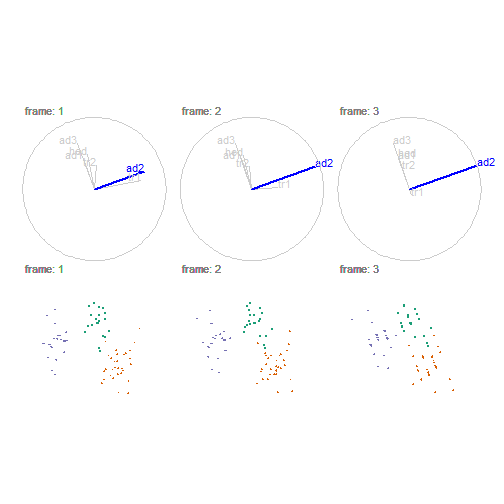
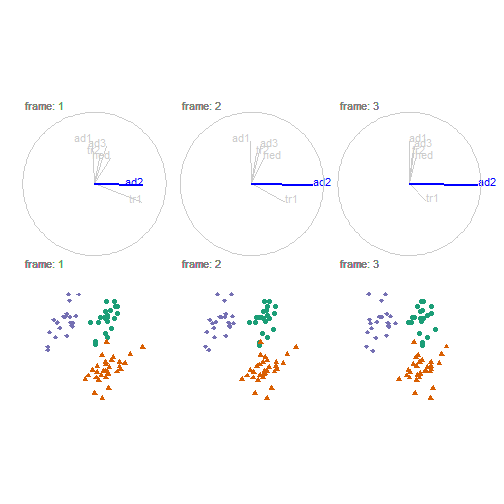
centering, knit, static angle

diff --git a/slides_ns.html b/slides_ns.html
@@ -64,14 +64,14 @@ Datasaurus dozen; same means, standard deviations, and correlations, *(Matejka &
 --
 
 .pull-left[
-grand tour (random):
+.center[grand tour (random):]
 &lt;img src="./images/flea_grand.gif" width="70%" height="70%" style="display: block; margin: auto;" /&gt;
 ]
 
 --
 
 .pull-right[
-guided tour - optimizing holes index:
+.center[guided tour - optimizing holes index:]
 &lt;img src="./images/flea_holes.gif" width="70%" height="70%" style="display: block; margin: auto;" /&gt;
 ]
 
@@ -92,7 +92,7 @@ Data visualization has lagged behind in adopting 3D and immersive technologies, 
 .pull-right[
 3D visuals generally convey more information with more speed, but  manipulation is slower when compared with orthogonal 2D, though 3D with 2D gives the best perception *[Lee 1986, Wickens 1994, Tory 2006]*
 
-Embedded multivariate data in immersive 3D report improved accuracy and faster response time, but a slower manipulation speed and less comfort *[Gracia 2016, Wagner 2018, Nelson 1998, counterexample: Sedlmair 2013]*
+Embedded multivariate data in immersive 3D report improved accuracy and faster response time, but a slower manipulation speed and less comfort *[Gracia 2016, Wagner 2018, Nelson 1998]*
 
 Modern VR equipment has improved quality, increased audience, and reduced the costs of VR, it is timely to research dynamic projections in VR
 ]
@@ -112,7 +112,7 @@ Modern VR equipment has improved quality, increased audience, and reduced the co
 
 ## RO 1) How can UCS be generalized to work within graphic-specific environments for 2D projections?
 
-- Manual choice - *manual tour* user-controlled manipulation of a selected variable *(Cook &amp; Buja 1997)*
+- *manual tour* user-controlled manipulation of a selected variable *(Cook &amp; Buja 1997)*
     - Used to explore the sensitivity of the structure to the variables contributing to the projection
     
 **Algorithm design, work in progress &amp; paper to be submitted to the R Journal:**
@@ -132,10 +132,12 @@ Modern VR equipment has improved quality, increased audience, and reduced the co
 
 
 .pull-left[
+.center[Projected data and reference axes]
 &lt;img src="slides_ns_files/figure-html/unnamed-chunk-5-1.png" width="130%" height="130%" style="display: block; margin: auto;" /&gt;
 ]
 
 .pull-right[
+.center[*XY* coefficients of each variable]
 &lt;table class="table" style="margin-left: auto; margin-right: auto;"&gt;
  &lt;thead&gt;
   &lt;tr&gt;
@@ -147,33 +149,33 @@ Modern VR equipment has improved quality, increased audience, and reduced the co
 &lt;tbody&gt;
   &lt;tr&gt;
    &lt;td style="text-align:left;"&gt; tars1 &lt;/td&gt;
-   &lt;td style="text-align:right;"&gt; 0.6515 &lt;/td&gt;
-   &lt;td style="text-align:right;"&gt; 0.1225 &lt;/td&gt;
+   &lt;td style="text-align:right;"&gt; 0.6653 &lt;/td&gt;
+   &lt;td style="text-align:right;"&gt; -0.2620 &lt;/td&gt;
   &lt;/tr&gt;
   &lt;tr&gt;
    &lt;td style="text-align:left;"&gt; tars2 &lt;/td&gt;
-   &lt;td style="text-align:right;"&gt; 0.0278 &lt;/td&gt;
-   &lt;td style="text-align:right;"&gt; 0.3299 &lt;/td&gt;
+   &lt;td style="text-align:right;"&gt; 0.0880 &lt;/td&gt;
+   &lt;td style="text-align:right;"&gt; 0.4291 &lt;/td&gt;
   &lt;/tr&gt;
   &lt;tr&gt;
    &lt;td style="text-align:left;"&gt; head &lt;/td&gt;
-   &lt;td style="text-align:right;"&gt; -0.0943 &lt;/td&gt;
-   &lt;td style="text-align:right;"&gt; 0.4786 &lt;/td&gt;
+   &lt;td style="text-align:right;"&gt; 0.2230 &lt;/td&gt;
+   &lt;td style="text-align:right;"&gt; 0.3514 &lt;/td&gt;
   &lt;/tr&gt;
   &lt;tr&gt;
    &lt;td style="text-align:left;"&gt; aede1 &lt;/td&gt;
-   &lt;td style="text-align:right;"&gt; -0.1472 &lt;/td&gt;
-   &lt;td style="text-align:right;"&gt; 0.4330 &lt;/td&gt;
+   &lt;td style="text-align:right;"&gt; -0.0259 &lt;/td&gt;
+   &lt;td style="text-align:right;"&gt; 0.5967 &lt;/td&gt;
   &lt;/tr&gt;
   &lt;tr&gt;
    &lt;td style="text-align:left;"&gt; aede2 &lt;/td&gt;
-   &lt;td style="text-align:right;"&gt; 0.6980 &lt;/td&gt;
-   &lt;td style="text-align:right;"&gt; 0.2446 &lt;/td&gt;
+   &lt;td style="text-align:right;"&gt; 0.6867 &lt;/td&gt;
+   &lt;td style="text-align:right;"&gt; -0.0178 &lt;/td&gt;
   &lt;/tr&gt;
   &lt;tr&gt;
    &lt;td style="text-align:left;"&gt; aede3 &lt;/td&gt;
-   &lt;td style="text-align:right;"&gt; -0.2385 &lt;/td&gt;
-   &lt;td style="text-align:right;"&gt; 0.6324 &lt;/td&gt;
+   &lt;td style="text-align:right;"&gt; 0.1662 &lt;/td&gt;
+   &lt;td style="text-align:right;"&gt; 0.5171 &lt;/td&gt;
   &lt;/tr&gt;
 &lt;/tbody&gt;
 &lt;/table&gt;
@@ -312,7 +314,7 @@ lineup design *(Hofmann et al. 2012)*
 ]
 
 .pull-right[
-**Design space:**
+Design space:
 - Display type: 2D monitor, 3D monitor, head-mount, physical immersion
 - Task type: structure, UCS, clustering, dimensionality
 - Measures: accuracy, speed, confidence, preference, demographic information, VR and data visualization expertise
